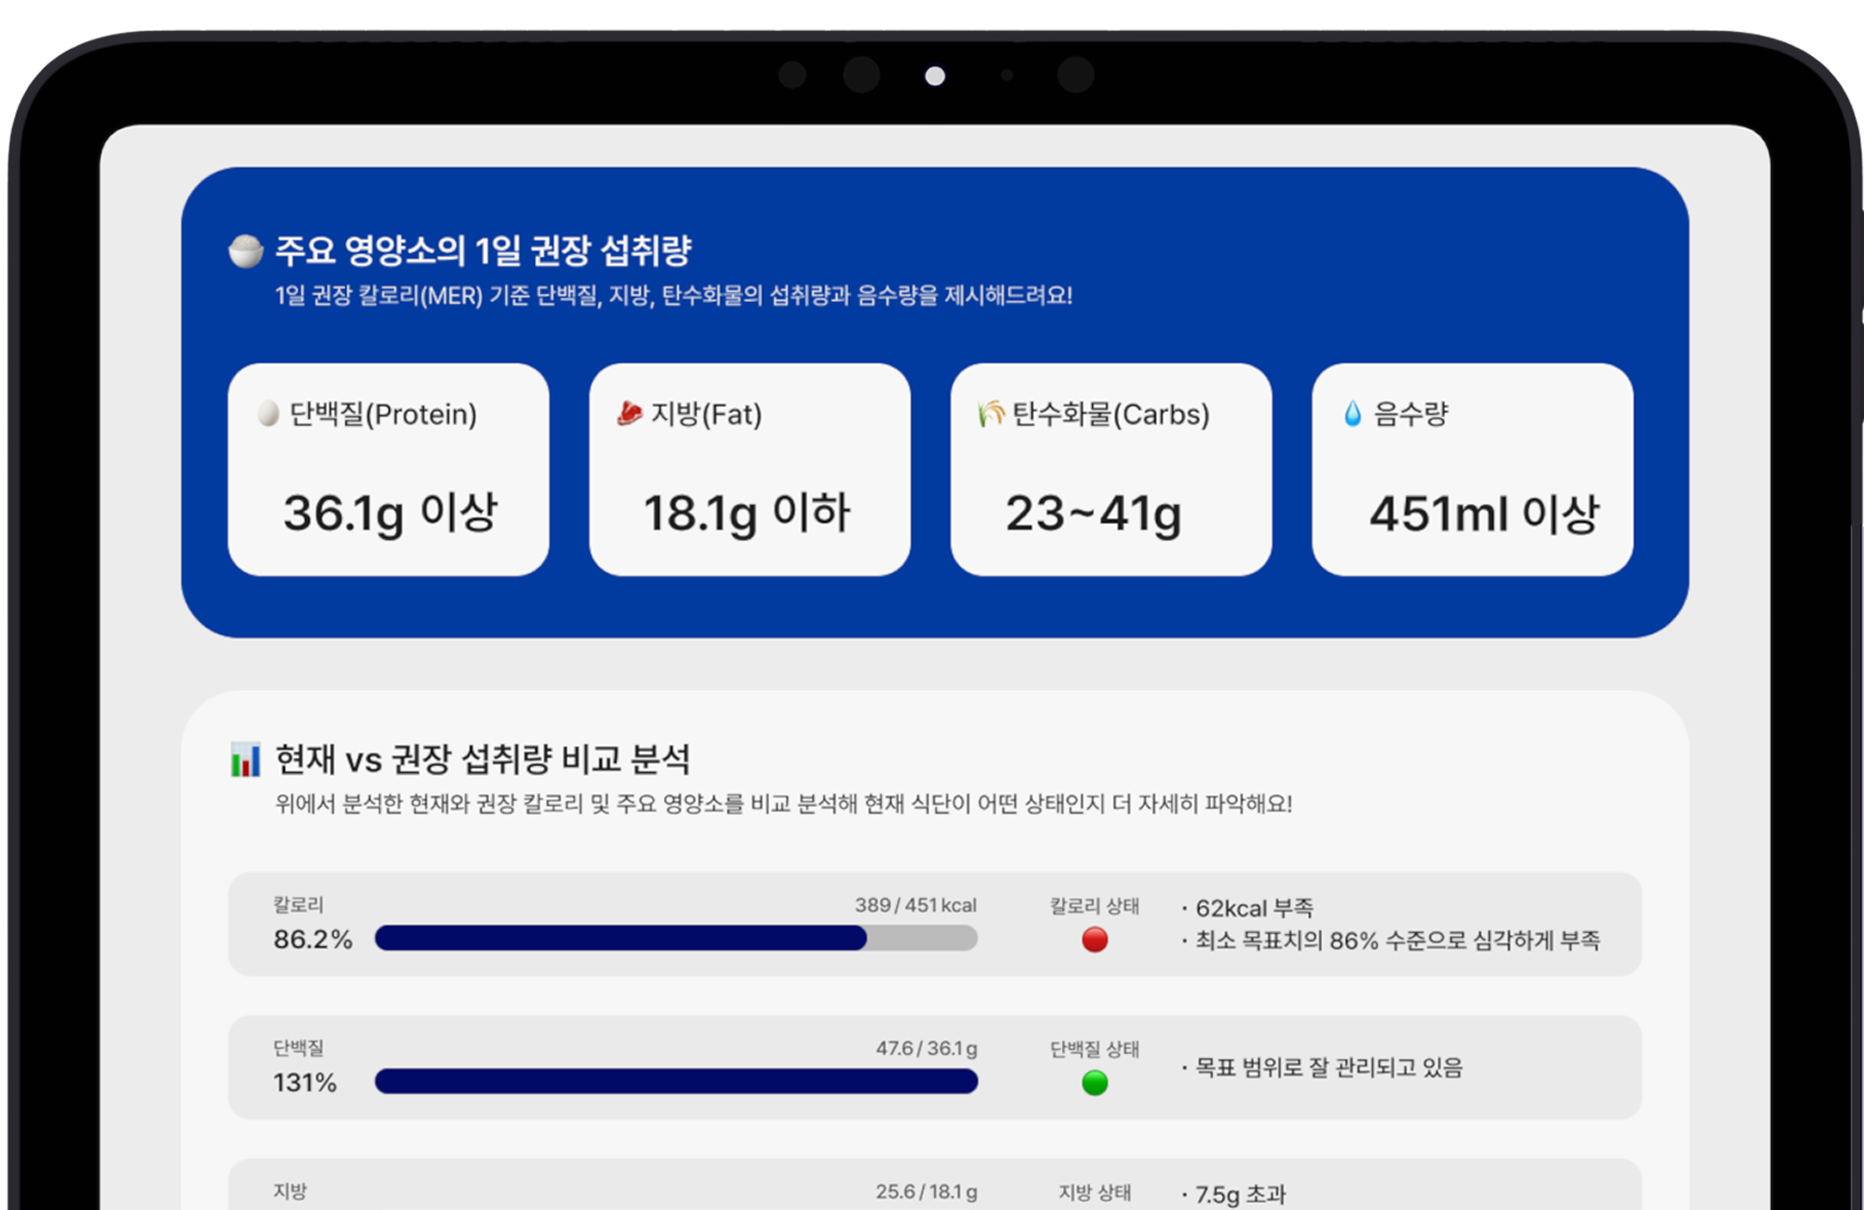
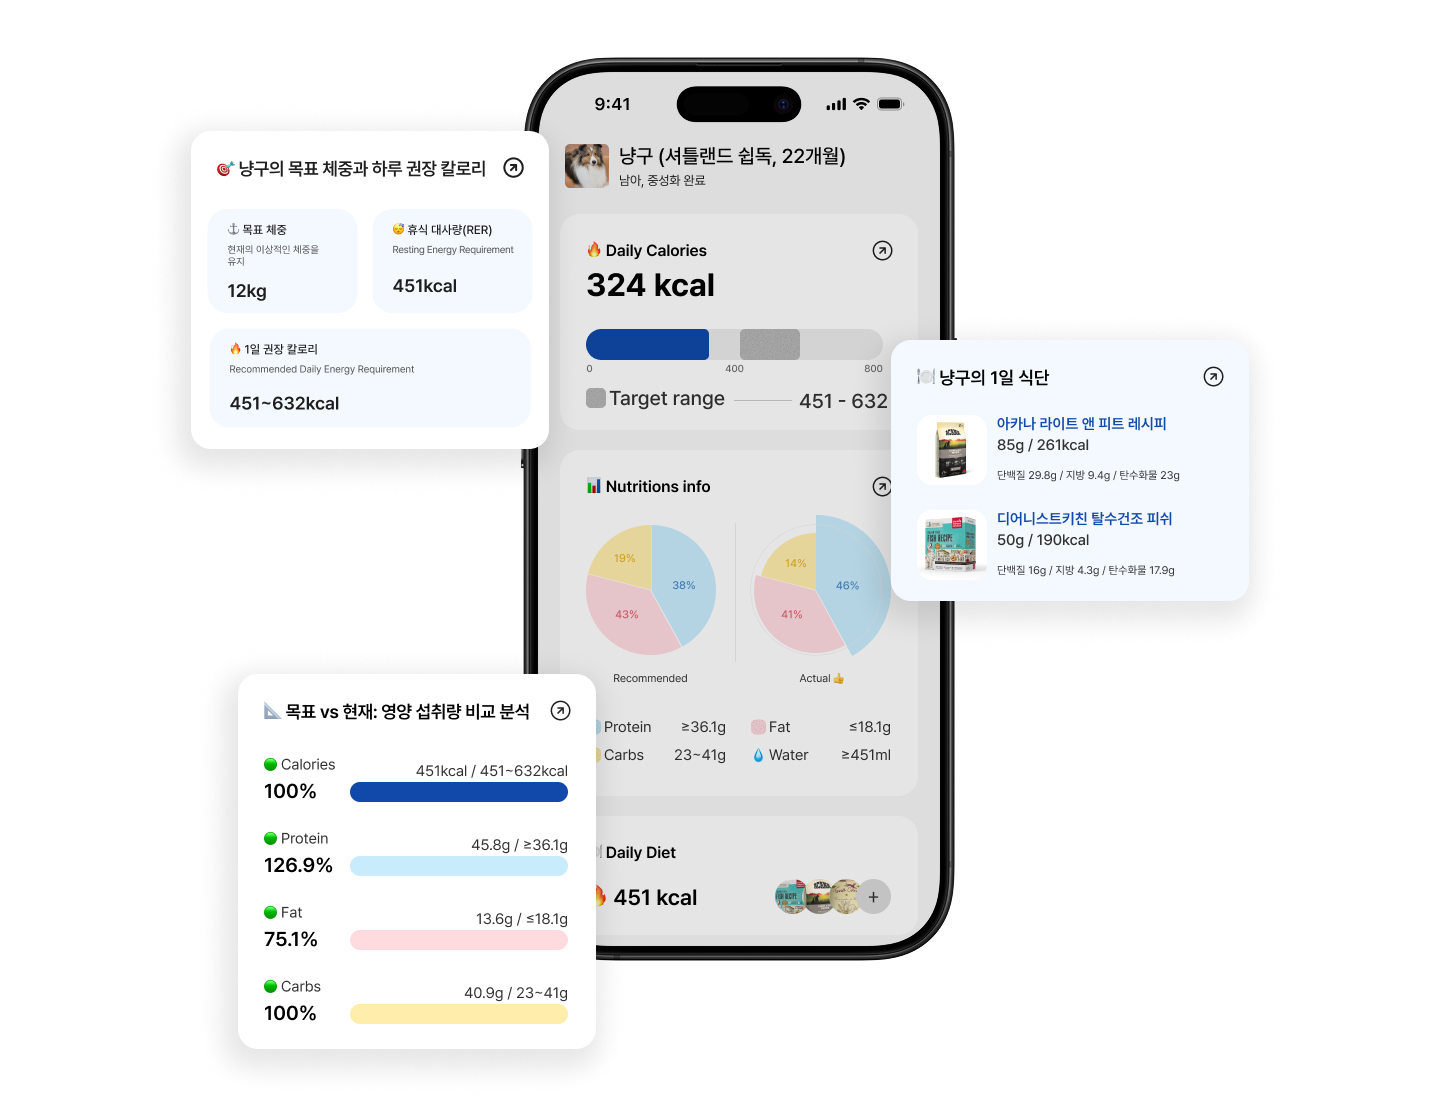
feat: 메인 페이지 > 히어로 섹션 이미지 변경

diff --git a/src/components/home/HeroSection.tsx b/src/components/home/HeroSection.tsx
@@ -3,10 +3,10 @@ import Image from 'next/image';
 
 const HeroSection = () => {
   return (
-    <section className="relative py-16 md:py-24" style={{
+    <section className="relative pt-16 md:pt-24 pb-0 mb-35 md:mb-135" style={{
       background: 'linear-gradient(to top, rgba(0, 61, 165, 0.5) 0%, rgba(121, 151, 203, 0.3) 50%, rgba(255, 255, 255, 0.2) 80%, rgba(255, 255, 255, 0) 90%, transparent 100%)'
     }}>
-      <div className="max-w-6xl mx-auto px-4 sm:px-6 lg:px-8">
+      <div className="max-w-6xl mx-auto px-4 sm:px-6 lg:px-8 relative z-10">
         <div className="text-center">
           <h1 className="text-[25px] md:text-[50px] font-medium text-[#1E1E1E] mb-6 leading-tight text-center">
             <span className="block md:hidden">
@@ -46,26 +46,28 @@ const HeroSection = () => {
         </div>
       </div>
 
-      {/* 하단 데코레이션 이미지 */}
-      <div className="w-full flex justify-center -mb-16 md:-mb-24">
-        <Image
-          src="/img/home/hero-bg-mobile.png"
-          alt="Hero background decoration"
-          width={320}
-          height={98}
-          className="block md:hidden h-auto mx-4"
-          priority
-        />
-        <Image
-          src="/img/home/hero-bg-desktop.png"
-          alt="Hero background decoration"
-          width={922}
-          height={200}
-          className="hidden md:block h-auto"
-          priority
-        />
+      {/* 하단 데코레이션 이미지 - 반 정도만 삐져나오게 */}
+      <div className="relative mt-2 md:mt-12 flex justify-center h-[80px]">
+        <div className="relative md:-translate-y-[calc(50%+10px)]">
+          <Image
+            src="/img/home/hero-bg-mobile.png"
+            alt="Hero background decoration"
+            width={320}
+            height={98}
+            className="block md:hidden h-auto mx-auto"
+            priority
+          />
+          <Image
+            src="/img/home/hero-bg-desktop.png"
+            alt="Hero background decoration"
+            width={922}
+            height={200}
+            className="hidden md:block h-auto mx-auto"
+            priority
+          />
+        </div>
       </div>
-    </section>
+    </section >
   );
 };
 

diff --git a/src/app/checkout/page.tsx b/src/app/checkout/page.tsx
@@ -369,7 +369,7 @@ function CheckoutPageContent() {
                   disabled={loading}
                   className='w-full bg-[#003DA5] text-white hover:bg-[#002A7A] active:bg-[#001F5C] h-12 px-6 text-lg font-bold rounded-lg transition-colors disabled:opacity-50'
                 >
-                  {loading ? '결제 준비 중...' : '결제하기'}
+                  {loading ? '서비스 준비 중...' : '서비스 신청하기'}
                 </button>
               </div>
             </div>
@@ -505,7 +505,7 @@ function CheckoutPageContent() {
             disabled={loading}
             className='w-full md:w-auto min-w-[200px] bg-[#003DA5] hover:bg-[#002A7A] text-white px-6 py-3 rounded-[10px] font-semibold disabled:opacity-50'
           >
-            {loading ? '결제 준비 중...' : '결제하기'}
+            {loading ? '서비스 준비 중...' : '서비스 신청하기'}
           </button>
         </div>
       </div>
